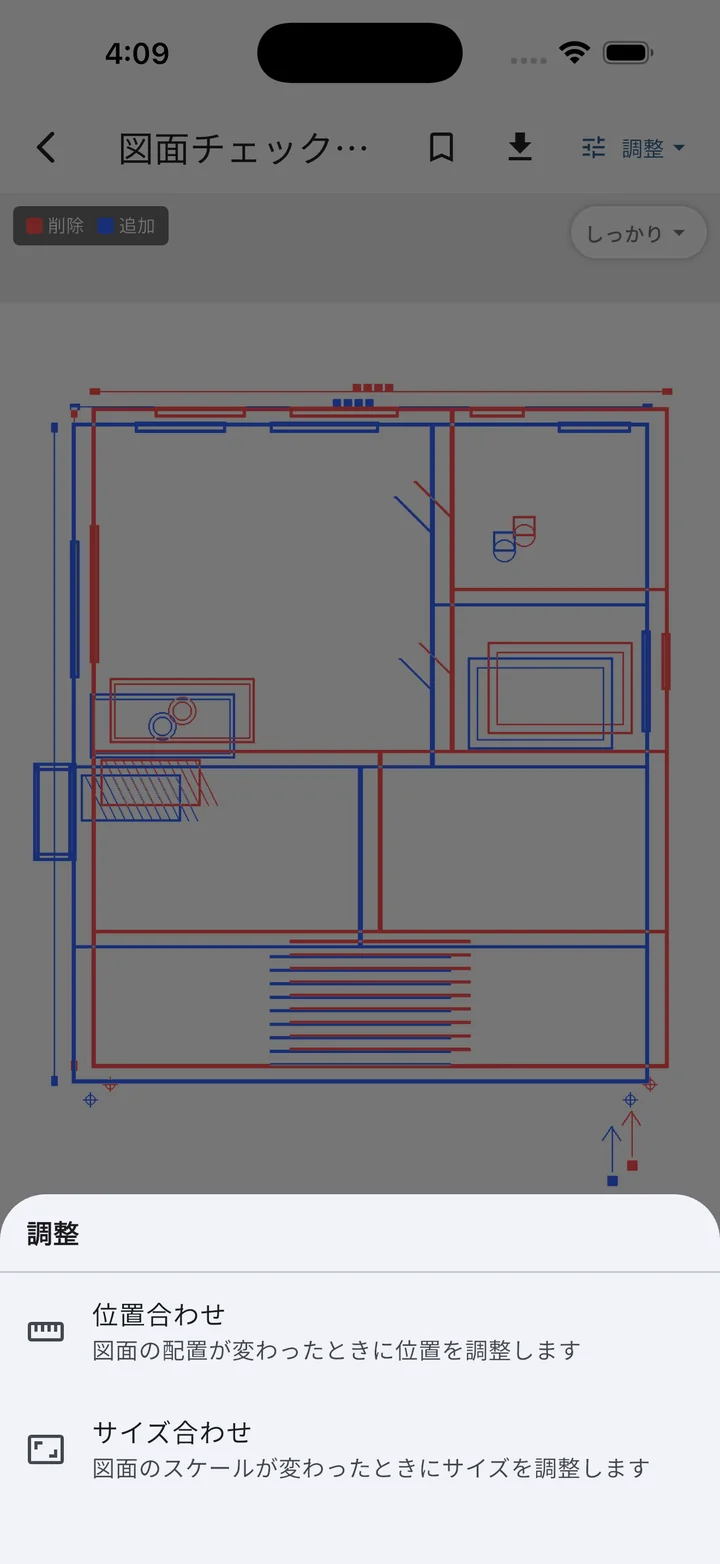
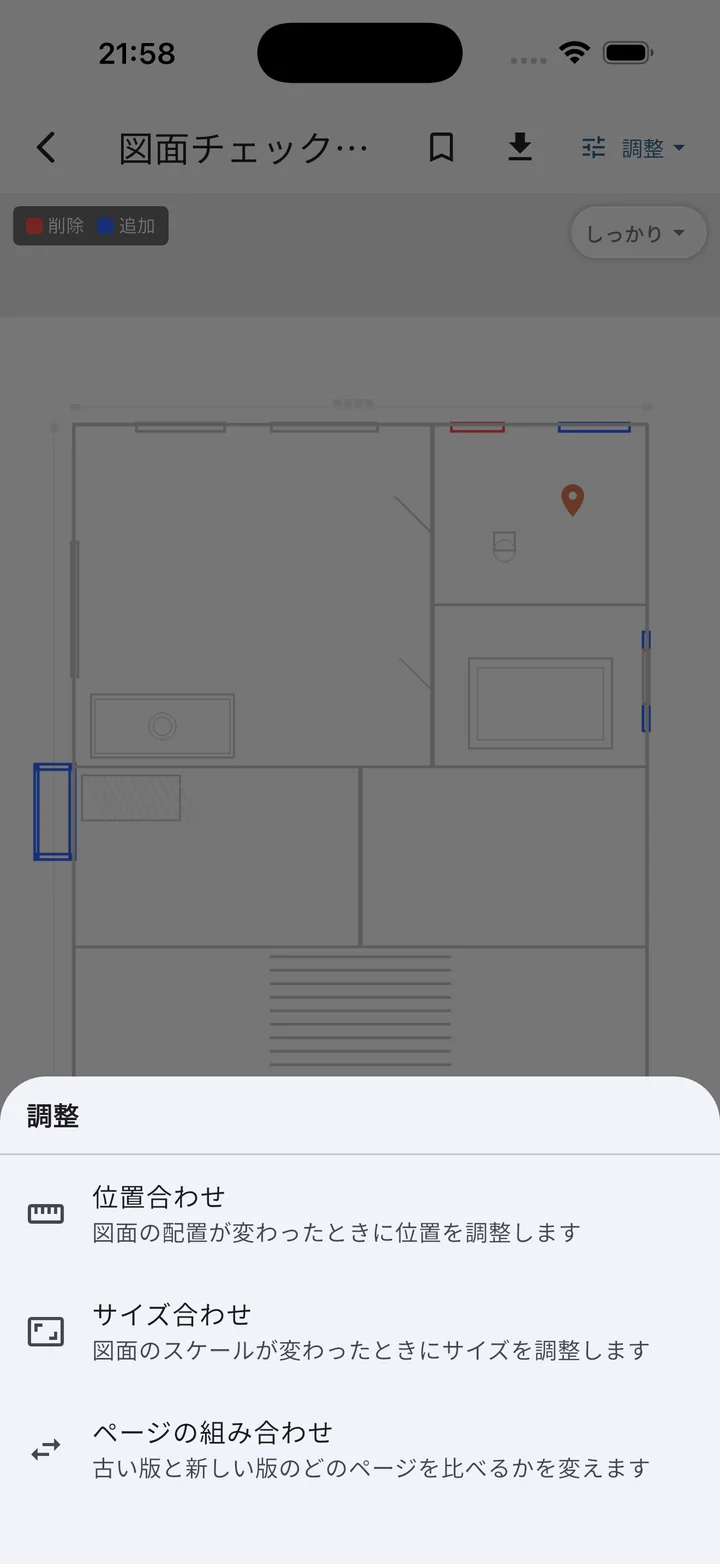
docs: マニュアルに「ページの組み合わせ」節を追加 + 位置合わせを v1.11.0 の画面に更新 (#7)
- 図面チェックに「ページの組み合わせ」節を新設 (一覧エディタの見かた /
  操作の流れ / 操作方法 / 調整値リセットの注記・スクショ 4 枚)
- 位置合わせ節を手順カード付きの新画面に追従 (3 ステップの文言・
  スクショ 3 枚差し替え)
- 調整メニューの説明と操作リファレンス・サイドバー目次を 3 項目構成へ更新
- sitemap の lastmod 更新

diff --git a/docs/manual.html b/docs/manual.html
@@ -731,6 +731,7 @@
     <li class="sub2"><a href="#diff-export">画像エクスポート</a></li>
     <li><a href="#alignment">位置合わせ画面</a></li>
     <li><a href="#size-alignment">サイズ合わせ画面</a></li>
+    <li><a href="#page-mapping">ページの組み合わせ</a></li>
     <li class="sub"><a href="#diff-actions">操作リファレンス</a></li>
   </ul>
 
@@ -1621,7 +1622,7 @@
   <li><strong>タイトル</strong>：図面番号の旧→新（例：2-6 → 2-7）、単独モード時はファイル名</li>
   <li><strong>メモアイコン</strong>：このページのメモ一覧</li>
   <li><strong>🔖 ブックマーク</strong>：この比較結果を登録／解除</li>
-  <li><strong>「調整 ▾」メニュー</strong>：<a href="#alignment">位置合わせ画面</a> または <a href="#size-alignment">サイズ合わせ画面</a> を選択</li>
+  <li><strong>「調整 ▾」メニュー</strong>：<a href="#alignment">位置合わせ画面</a>・<a href="#size-alignment">サイズ合わせ画面</a>・<a href="#page-mapping">ページの組み合わせ</a> を選択</li>
   <li><strong>エクスポートアイコン</strong>：画像保存／共有</li>
 </ul>
 
@@ -1728,21 +1729,21 @@
 <p>差分結果で位置がずれているときに、手動で旧図の位置を調整する画面です。差分結果画面の右上「<strong>調整 ▾</strong>」メニュー → 「位置合わせ」を選んで遷移します。</p>
 
 <figure class="shot-phone">
-  <img src="images/cad_adjust_menu.webp" width="720" height="1564" alt="「調整 ▾」メニュー（位置合わせ / サイズ合わせ）" loading="lazy" decoding="async">
-  <figcaption>「調整 ▾」メニュー：位置合わせ / サイズ合わせ の 2 種を選べる</figcaption>
+  <img src="images/cad_adjust_menu.webp" width="720" height="1564" alt="「調整 ▾」メニュー（位置合わせ / サイズ合わせ / ページの組み合わせ）" loading="lazy" decoding="async">
+  <figcaption>「調整 ▾」メニュー：位置合わせ / サイズ合わせ / <a href="#page-mapping">ページの組み合わせ</a> の 3 種を選べる</figcaption>
 </figure>
 
-<p>画面上部のヘルプバナーに、以下の3ステップが表示されます。</p>
+<p>画面上部の「位置合わせの手順」カードに、以下の3ステップが表示されます。</p>
 <ol>
-  <li>X/Yスライダーでざっくり位置を合わせる</li>
-  <li>選択枠（緑の枠）を外壁のカドなど特徴的な部分に移動・リサイズ</li>
-  <li>「ピタッと合わせる」ボタンで自動探索を実行（変化なしになるまで数回繰り返す）</li>
+  <li><strong>下準備</strong>：X/Yスライダーでおおまかに位置を合わせる（大きくずれているときだけでOK）</li>
+  <li><strong>目印</strong>：緑の枠を、外壁のカドなど「ずれが分かる場所」に移動・リサイズ</li>
+  <li><strong>仕上げ</strong>：「ピタッと合わせる」を押す（<strong>「変化なし」と出るまで数回くり返す</strong>のがコツ）</li>
 </ol>
 
 <div class="shot-grid">
   <figure class="shot-phone">
-    <img src="images/diff_align.webp" width="720" height="1564" alt="位置合わせ初期画面（選択枠とX/Yスライダー）" loading="lazy" decoding="async">
-    <figcaption>初期画面（選択枠＋X/Yスライダー）</figcaption>
+    <img src="images/diff_align.webp" width="720" height="1564" alt="位置合わせ初期画面（手順カード・目印枠・下準備スライダー）" loading="lazy" decoding="async">
+    <figcaption>初期画面（手順カード＋目印枠＋下準備スライダー）</figcaption>
   </figure>
   <figure class="shot-phone">
     <img src="images/align_moved.webp" width="720" height="1564" alt="X/Yスライダーで位置を合わせ、選択枠も特徴部分に移動した状態（X:-80/Y:67）" loading="lazy" decoding="async">
@@ -1753,8 +1754,8 @@
     <figcaption>③ 「ピタッと合わせる」探索中</figcaption>
   </figure>
   <figure class="shot-phone">
-    <img src="images/align_done.webp" width="720" height="1564" alt="位置合わせ完了" loading="lazy" decoding="async">
-    <figcaption>位置合わせ完了</figcaption>
+    <img src="images/align_done.webp" width="720" height="1564" alt="位置合わせ完了（変化なし表示と下準備の案内）" loading="lazy" decoding="async">
+    <figcaption>「変化なし」＝位置合わせ完了。ずれが残るときは下準備からやり直す案内が出る</figcaption>
   </figure>
   <figure class="shot-phone">
     <img src="images/align_discard_dialog.webp" width="720" height="1564" alt="位置合わせ破棄確認ダイアログ" loading="lazy" decoding="async">
@@ -1837,6 +1838,64 @@
   <p>サイズ合わせの結果は<strong>ページ単位</strong>で保存されます。同じ比較を再度開いたときは前回の結果がそのまま反映されます。</p>
 </div>
 
+<h3 id="page-mapping">ページの組み合わせ</h3>
+<p>旧版と新版で<strong>どのページ同士を比べるか</strong>を変更する機能です。版の途中でページが増えたり減ったりすると、標準の「同じページ番号同士」の比較ではページがずれてしまいます。そんなときに、差分結果画面の右上「<strong>調整 ▾</strong>」メニュー → 「<strong>ページの組み合わせ</strong>」から組み合わせを直せます。</p>
+
+<p>旧版と新版でページ数が違う場合は、比較を開いたときに案内バナーが表示されます。バナーの「<strong>ページの組み合わせ</strong>」ボタンからも直接開けます。</p>
+
+<figure class="shot-phone">
+  <img src="images/page_mapping_mismatch_banner.webp" width="720" height="1564" alt="ページ数が違うときの案内バナー（古い版は5ページ、新しい版は6ページです）" loading="lazy" decoding="async">
+  <figcaption>ページ数が違う 2 版を比べると案内バナーが出る</figcaption>
+</figure>
+
+<h4>一覧エディタの見かた</h4>
+<ul>
+  <li><strong>表示ページ</strong>：差分結果画面で何ページ目として表示されるか</li>
+  <li><strong>古い版 / 新しい版</strong>：そのページで比べる各版のページ（サムネイル付き）</li>
+  <li><strong>「いま表示中」</strong>：差分結果画面で開いていたページの行につく目印</li>
+  <li><strong>青い点</strong>：標準（同じページ番号同士）と違う組み合わせにした行の目印</li>
+  <li>使われていないページや、複数の行で使われているページがあると、一覧の上に<strong>お知らせ</strong>が表示されます（そのまま保存もできます）</li>
+</ul>
+
+<div class="shot-grid">
+  <figure class="shot-phone">
+    <img src="images/page_mapping_editor.webp" width="720" height="1564" alt="ページの組み合わせ一覧エディタ（表示ページ・古い版・新しい版の列とサムネイル）" loading="lazy" decoding="async">
+    <figcaption>一覧エディタ：ずらした行に青い点、下端の行は「なし」になっている</figcaption>
+  </figure>
+  <figure class="shot-phone">
+    <img src="images/page_mapping_picker.webp" width="720" height="1564" alt="ページ選択（下から出るサムネイル一覧。先頭に「なし」）" loading="lazy" decoding="async">
+    <figcaption>セルをタップするとサムネイル一覧からページを選べる。先頭の「なし」は「比べる相手のページはなし」</figcaption>
+  </figure>
+  <figure class="shot-phone">
+    <img src="images/page_mapping_propagate.webp" width="720" height="1564" alt="「この後のページも同じだけずらす」ボタンが表示された状態" loading="lazy" decoding="async">
+    <figcaption>片側をずらすと「この後のページも同じだけずらす」が出て、以降の行をまとめて直せる</figcaption>
+  </figure>
+</div>
+
+<h4>操作の流れ</h4>
+<ol>
+  <li>直したい行の「古い版」または「新しい版」のセルをタップ</li>
+  <li>下から出るサムネイル一覧からページを選ぶ（「<strong>なし</strong>」を選ぶと、そのページは比較しない）</li>
+  <li>途中でページが 1 枚増えた／減っただけなら、ずらした行の下に出る「<strong>この後のページも同じだけずらす</strong>」を押すと以降がまとめて揃います</li>
+  <li>右上の「<strong>保存</strong>」で確定。組み合わせを変えたページだけ差分が再計算されます</li>
+</ol>
+
+<h4>操作方法</h4>
+<ul>
+  <li><strong>セルのタップ</strong>：そのページで比べる相手をサムネイル一覧から選ぶ</li>
+  <li><strong>行の「︙」メニュー</strong>：「このページを標準に戻す」</li>
+  <li><strong>右上の「︙」メニュー</strong>：「すべて標準に戻す」</li>
+  <li><strong>右上「保存」</strong>：変更を確定して差分を再計算</li>
+</ul>
+
+<div class="callout note">
+  <p>組み合わせを変えたページは、<a href="#alignment">位置合わせ</a>・<a href="#size-alignment">サイズ合わせ</a>の調整値が<strong>リセット</strong>されます（調整値はページの組み合わせごとに保存されているため）。また、相手を「なし」にしたページは、差分の代わりに「このページは古い版（新しい版）にのみあります」と表示されます。</p>
+</div>
+
+<div class="callout tip">
+  <p>組み合わせを変えるページに<a href="#memo-on-diff">ピンメモ</a>がある場合は、保存時にメモの扱いの確認が表示されます。</p>
+</div>
+
 <h3 id="diff-actions">操作リファレンス</h3>
 <div class="action-box">
   <div class="action-row"><strong>種別セグメント</strong><span>CAD図面 / 電気図面 切替</span></div>
@@ -1852,7 +1911,9 @@
   <div class="action-row"><strong>ピンチ・ダブルタップ</strong><span>最大8倍ズーム</span></div>
   <div class="action-row"><strong>画面長押し</strong><span>その位置にメモを追加（ピンメモ）</span></div>
   <div class="action-row"><strong>エクスポートアイコン</strong><span>現在の1枚 or 3枚まとめ</span></div>
-  <div class="action-row"><strong>「調整 ▾」メニュー</strong><span>位置合わせ / サイズ合わせ を選択</span></div>
+  <div class="action-row"><strong>「調整 ▾」メニュー</strong><span>位置合わせ / サイズ合わせ / ページの組み合わせ を選択</span></div>
+  <div class="action-row"><strong>ページの組み合わせ：セルタップ</strong><span>比べる相手のページを選ぶ（「なし」も可）</span></div>
+  <div class="action-row"><strong>ページの組み合わせ：「保存」</strong><span>変えたページだけ差分を再計算</span></div>
   <div class="action-row"><strong>サイズ合わせ：縮尺を入力</strong><span>旧/新の縮尺（1/◯◯）から大きさの比を算出</span></div>
   <div class="action-row"><strong>サイズ合わせ（計測）：枠ドラッグ</strong><span>①②を点線（グリッド線）の交わる場所に配置</span></div>
   <div class="action-row"><strong>サイズ合わせ（計測）：「サイズを比較」</strong><span>4 ヶ所から大きさの比を算出</span></div>
